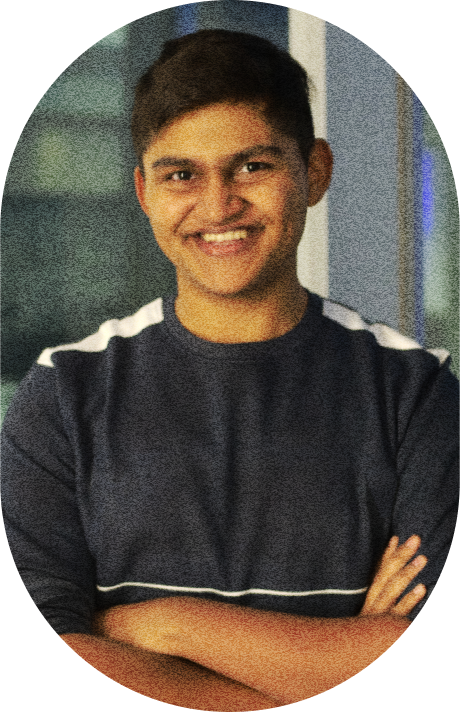
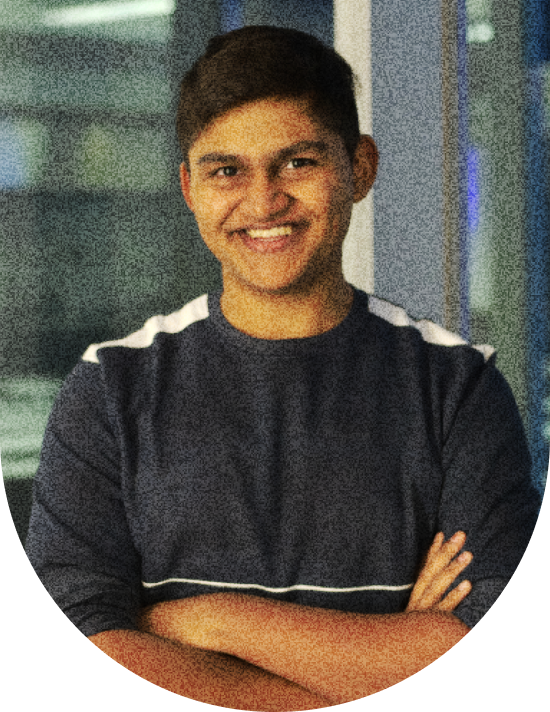
Mini

diff --git a/JS/utilities.js b/JS/utilities.js
@@ -3,34 +3,49 @@ class nav extends HTMLElement {
         super()
         this.innerHTML = `
         <nav class="inactive">
-        <a href="/" class="logo-wapper"><img src="./Images/Logo.svg" alt="Gaurav Shah Logo" class="nav-logo"></a>
-        <ul>
-            <li>
-                <a id="nav-menu-home" href="#">Home</a>
-            </li>
-            <!--<li>
-                <a href="#selected-works" id="nav-menu-projects">Projects</a>
-            </li>-->
-            <li>
-                <a id="nav-menu-about" href="/About/about.html">About</a>
-            </li>
-            <li>
-                <a href="/Resume.pdf" target="_blank" id="nav-menu-resume">Résumé</a>
-            </li>
-            <li class="cta-wrapper">
-                <button class="cta">Let's Talk<span class="material-symbols-outlined">arrow_forward</span></button>
-            </li>
-        </ul>
-        <span class="material-symbols-outlined nav-hamburger hide-desktop" onclick="navOpen()">menu</span>
-    </nav>
+            <a href="/" class="logo-wapper"><img src="./Images/Logo.svg" alt="Gaurav Shah Logo" class="nav-logo"></a>
+            <ul>
+                <li>
+                    <a id="nav-menu-home" href="#">Home</a>
+                </li>
+                <!--<li>
+                    <a href="#selected-works" id="nav-menu-projects">Projects</a>
+                </li>-->
+                <li>
+                    <a id="nav-menu-about" href="/About/about.html">About</a>
+                </li>
+                <li>
+                    <a href="/Resume.pdf" target="_blank" id="nav-menu-resume">Résumé</a>
+                </li>
+                <li class="cta-wrapper">
+                    <button class="cta lets-talk">Let's Talk<span class="material-symbols-outlined">arrow_forward</span></button>
+                </li>
+            </ul>
+            <span class="material-symbols-outlined nav-hamburger hide-desktop" onclick="navOpen()">menu</span>
+        </nav>
+
+        <!-- Let's Talk Modal -->
+        <div class="modal-bg-overlay modal-closed">
+            <div class="modal">
+
+                <div class="email-copy">
+                    <p>gshah@uwaterloo.ca</p>
+                    <button class="email-copy-button" id="email-copy-button">Copy</button>
+                </div>
+                <p>OR</p>
+                <a href="https://calendly.com/gs336/30min"><button class="modal-calendly">Schedule a meeting via Calendly</button></a>
+                
+            </div>
+            <button class="close-modal"><span class="material-symbols-outlined">close</span></button>
+        </div>
         `
     }
 }
 
-function navOpen(){
+function navOpen() {
 
     document.querySelector("nav").classList.toggle("inactive");
-    
+
 }
 
 class footer extends HTMLElement {
@@ -68,3 +83,57 @@ class footer extends HTMLElement {
 customElements.define("nav-content", nav);
 customElements.define("footer-content", footer);
 
+// Close the Modal
+const modalBgOverlay = document.querySelector('.modal-bg-overlay');
+const modal = document.querySelector('.modal');
+
+function closeModal() {
+    modalBgOverlay.classList.add('modal-closed');
+    modalBgOverlay.setAttribute('aria-hidden', 'true');
+}
+
+modalBgOverlay.addEventListener('click', function (event) {
+    if (event.target === modalBgOverlay) {
+        closeModal();
+    }
+});
+
+document.querySelector('.close-modal').addEventListener('click', function (event) {
+    closeModal();
+});
+
+// Open the Modal
+const letsTalkButtons = document.querySelectorAll('.lets-talk');
+letsTalkButtons.forEach(function (button) {
+    button.addEventListener('click', function () {
+        console.log("HI")
+        modalBgOverlay.classList.remove('modal-closed');
+        modalBgOverlay.setAttribute('aria-hidden', 'false');
+    });
+});
+
+
+// Copy Email
+const emailCopyButton = document.getElementById('email-copy-button');
+const emailCopyText = document.querySelector('.email-copy p');
+
+emailCopyButton.addEventListener('click', function () {
+    // Create a temporary textarea element
+    const textarea = document.createElement('textarea');
+    textarea.value = emailCopyText.textContent;
+    document.body.appendChild(textarea);
+
+    // Copy the email text to the clipboard
+    textarea.select();
+    document.execCommand('copy');
+    document.body.removeChild(textarea);
+
+    // Update the button text
+    emailCopyButton.textContent = 'Copied!';
+    setTimeout(closeModal, 1000);
+    setTimeout(copyTexttoNormal, 1500);
+});
+
+function copyTexttoNormal() {
+    emailCopyButton.textContent = 'Copy';
+}

diff --git a/CSS/utilities.css b/CSS/utilities.css
@@ -142,6 +142,139 @@ nav .active {
 }
 
 
+.modal-bg-overlay {
+    position: fixed;
+    top: 0;
+    left: 0;
+    z-index: 10000000;
+    background-color: #111111f6;
+    height: 100vh;
+    width: 100vw;
+    display: flex;
+    flex-direction: column;
+    align-items: center;
+    justify-content: center;
+}
+
+.modal-bg-overlay.modal-closed {
+    opacity: 0;
+    transform: translateY(-10%);
+    visibility: hidden;
+}
+
+.modal-bg-overlay .close-modal {
+    position: fixed;
+    top: var(--fz-big-body);
+    right: var(--fz-big-body);
+    background: none;
+    border: none;
+    cursor: pointer;
+    color: var(--text-color);
+    padding: var(--fz-small-body);
+}
+
+.modal-bg-overlay .close-modal span {
+    font-size: var(--fz-h4) !important;
+    pointer-events: none;
+}
+
+.modal {
+    display: flex;
+    flex-direction: column;
+    align-items: center;
+    justify-content: center;
+    color: var(--text-color);
+    gap: var(--fz-big-body);
+    /* background-color: var(--dark-alt); */
+    padding: var(--fz-big-body);
+    transition: 0s;
+}
+
+.modal a {
+    text-decoration: none;
+}
+
+.modal button {
+    padding: var(--fz-body) calc(var(--fz-big-body) * 1.5);
+    font-size: var(--fz-body);
+    cursor: pointer;
+    transition: 0s;
+}
+
+.modal-calendly {
+    color: var(--text-color);
+    display: flex;
+    align-items: center;
+    justify-content: center;
+    gap: var(--fz-small-body);
+    border-radius: var(--fz-h1);
+    background: var(--background);
+    font-weight: 300;
+}   
+
+.modal-calendly:hover {
+    background-color: var(--primary);
+    color: var(--background);
+    font-weight: 500;
+}
+
+.email-copy {
+    display: flex;
+    border: 1px solid var(--text-color-lightest);
+    border-radius: var(--fz-h1);
+    padding: 0;
+    gap: 0;
+    position: relative;
+    background-color: var(--background);
+    color: var(--light);
+    
+}
+
+.email-copy p{
+    font-size: var(--fz-body);
+    padding-inline: calc(var(--fz-big-body) * 1.5);
+}
+
+.email-copy::before {
+    content: "Shoot me a quick email";
+    position: absolute;
+    top: calc(var(--fz-small-body) * -2.5);
+    left: 50%;
+    transform: translate(-50%);
+    width: max-content;
+    color: var(--light);
+    opacity: 0.5;
+    padding: 0 var(--fz-small-body);
+}
+
+.modal .email-copy p {
+    display: flex;
+    align-items: center;
+    justify-content: center;
+    margin: 0;
+}
+
+.email-copy-button {
+    border-radius: 0 var(--fz-h1) var(--fz-h1) 0;
+    background-color: var(--text-color);
+    width: calc(var(--fz-big-body) * 5);
+    display: flex;
+    justify-content: center;
+    align-items: center;
+    border: none;
+    color: var(--background);
+}
+
+.email-copy-button:hover {
+    background-color: var(--primary);
+    color: var(--background);
+}
+
+/* .email-copy:has(.email-copy-button:hover) {
+    color: var(--primary);
+    border: 2px solid var(--primary);
+} */
+
 
 section {
     width: 100%;
@@ -236,7 +369,7 @@ footer {
 }
 
 .footer-contact ul li a span.material-icons-outlined {
-    font-size: calc(var(--fz-20) * .8) !important
+    font-size: calc(var(--fz-body) * .8) !important
 }
 
 .footer-contact button {

diff --git a/mini/mini.css b/mini/mini.css
@@ -42,12 +42,13 @@ section.header{
 section.header img{
     width: 100%;
     padding: 10vw;
+    padding-top: 0;
 }
 
 section.header h1{
     font-size: var(--fz-h1);
     font-family: "Clash Display";
-    margin-top: var(--fz-h1);
+    margin-top: calc(var(--fz-h1) + var(--fz-small-body));
 }
 
 section.header p{
@@ -120,6 +121,6 @@ section.header img.mini-internships{
     width: 40vw;
     padding: 0;
     position: absolute;
-    top: 105vw;
+    top: 77vw;
     left: 30vw;
 }
